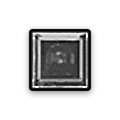
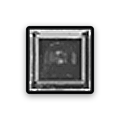
Botones: marco negro por fuera del cuerpo [skip ci]
Claude-Session: https://claude.ai/code/session_01LmYTuHAKQSU8qhR6nNkVAi

Changed region(s): [[0.2, 0.2, 0.8, 0.825], [0.5, 0.525, 0.525, 0.55]]

diff --git a/UI_definitiva/generadores/button_from_ref.py b/UI_definitiva/generadores/button_from_ref.py
@@ -37,7 +37,7 @@ def build(src, body, name, lit):
     pm = np.dstack([rgb*alpha[..., None], alpha])           # premultiplicado para que no salgan bordes
     big = Image.fromarray((np.clip(pm, 0, 1)*65535).astype(np.uint16)[..., 0]) if False else None
     chans = [Image.fromarray(pm[..., k].astype(np.float32), 'F') for k in range(4)]
-    f = (TW - 2*ring)/(x1 - x0 + 1)            # factor de escala al tamano final (cuerpo + marquito = TW)
+    f = (TW - (2*1.4 if lit else 0))/(x1 - x0 + 1)   # el cuerpo conserva su medida; el marco negro va por fuera (hueco de la chapa)            # factor de escala al tamano final (cuerpo + marquito = TW)
     n = 120
     res = np.zeros((n, n, 4), np.float32)
     # transformacion: centro del cuerpo -> centro 60,60 del png final
@@ -47,10 +47,11 @@ def build(src, body, name, lit):
         res[..., k] = np.array(t)
     mk = Image.fromarray(mask.astype(np.float32), 'F').transform((n, n), Image.AFFINE, (a_, 0, cx - 60*a_, 0, a_, cy - 60*a_), resample=Image.BICUBIC)
     body_a = np.clip(np.array(mk), 0, 1)
+    BW = TW + 2*RING                           # lado total del marco negro (cuerpo + marco por fuera)
     K = 8                                      # marquito negro: cuadrado redondeado de TW x TW, dibujado 8x mas grande y reducido
     bl = Image.new('L', (n*K, n*K), 0)
     from PIL import ImageDraw
-    ImageDraw.Draw(bl).rounded_rectangle(((60 - TW/2)*K, (60 - TW/2)*K, (60 + TW/2)*K - 1, (60 + TW/2)*K - 1), radius=3.5*K, fill=255)
+    ImageDraw.Draw(bl).rounded_rectangle(((60 - BW/2)*K, (60 - BW/2)*K, (60 + BW/2)*K - 1, (60 + BW/2)*K - 1), radius=3.5*K, fill=255)
     black = np.array(bl.resize((n, n), Image.LANCZOS)).astype(float)/255.0
     if lit:                                    # un poco de luz azul por fuera del marco negro
         yy_g, xx_g = np.mgrid[0:n, 0:n] + 0.5
